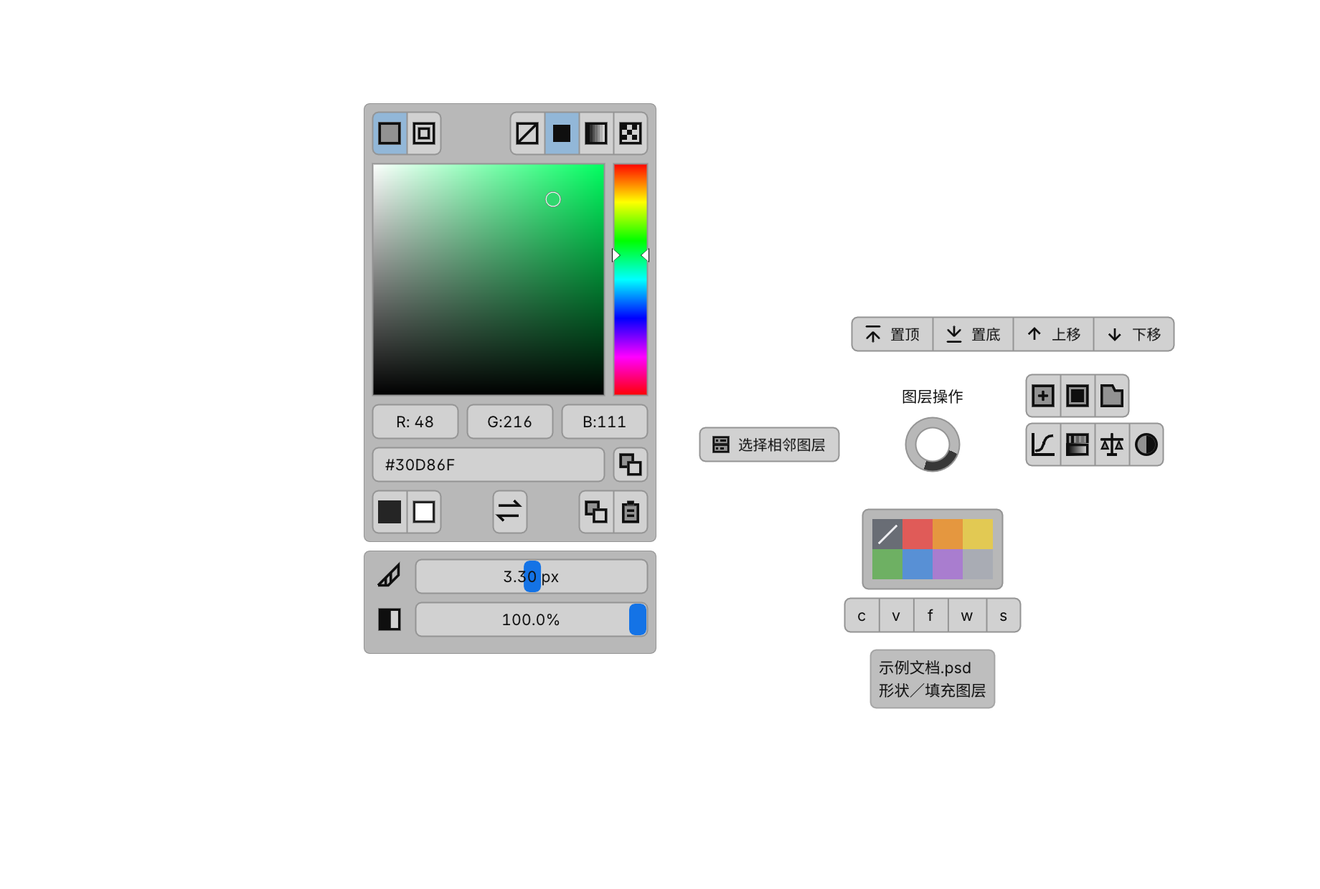
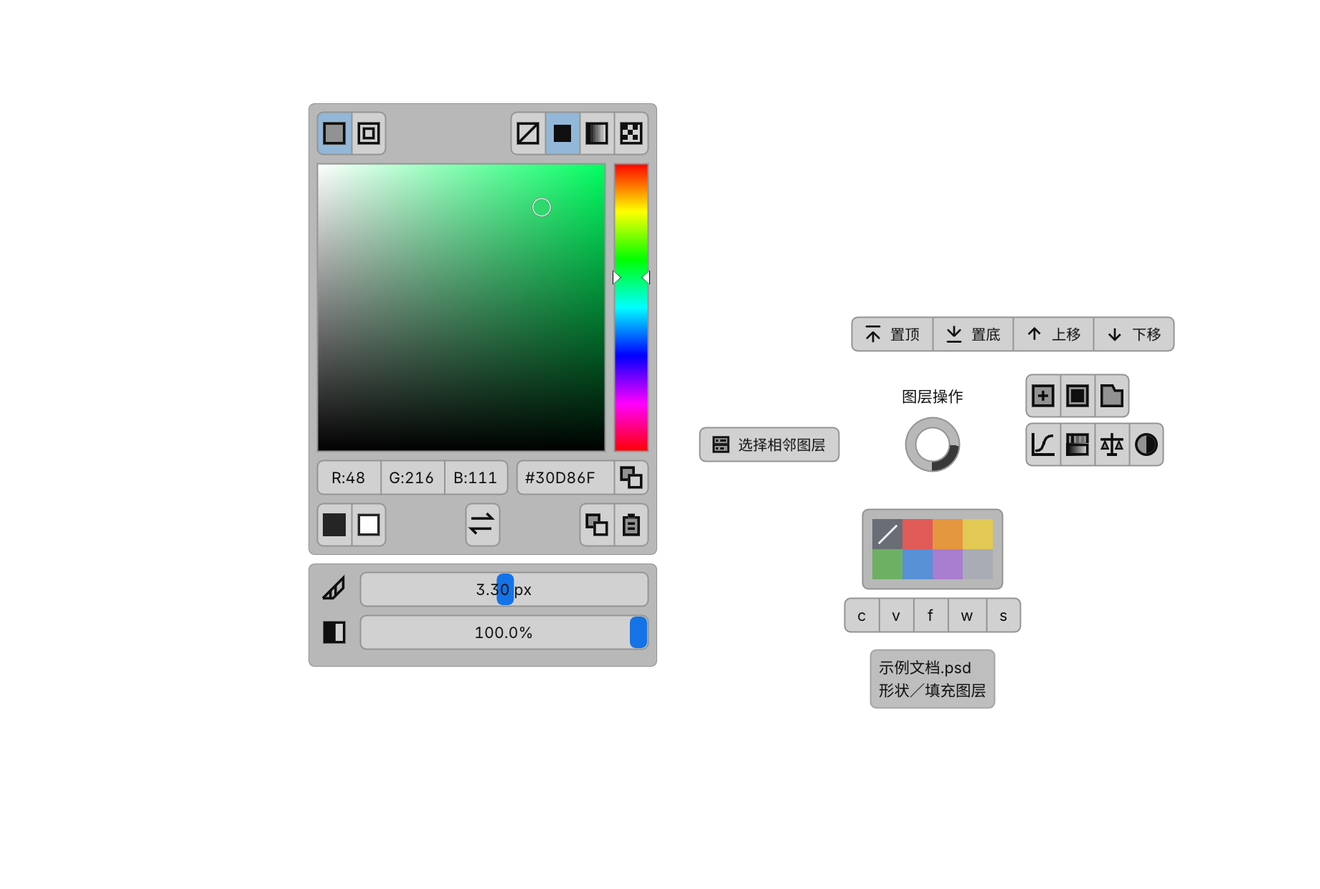
Refine RGB and editable Hex into one aligned row

Changed region(s): [[0.2168, 0.0919, 0.4957, 0.7661], [0.4027, 0.1226, 0.4957, 0.1839], [0.4027, 0.2145, 0.4337, 0.2452]]

diff --git a/native/ShapeColorEditor.h b/native/ShapeColorEditor.h
@@ -9,14 +9,16 @@ struct ShapeColorEditor {
     std::string hexKey;
     ULONGLONG copiedAt=0;
     bool copyFailed=false;
-    RECT bounds{},maskBounds{},copyBounds{},gradientBounds{},featherBounds{},densityBounds{};
+    RECT bounds{},maskBounds{},copyBounds{},gradientBounds{},featherBounds{},densityBounds{},hexBounds{};
     bool gradientDragging=false;
     std::array<ImGuiID,2> maskInputIDs{};
+    std::array<ImGuiID,3> rgbInputIDs{};
+    std::array<RECT,3> rgbBounds{};
     float gradientDragOffset=0;
     void prepare(const Json& data) {
         maskPreviewStarted=false;shapeDraftOnly=false;livePreview=false;batchMask=false;batchCount=0;maskValues=maskMixed=Json::object();
-        lastPreview=Json();maskInputIDs={};
-        available=false;dirty=false;bounds=maskBounds=copyBounds=gradientBounds=featherBounds=densityBounds={};gradientDragging=false;gradientDragOffset=0;channel=stop=0;modes={};hexInput[0]=0;hexKey.clear();copiedAt=0;copyFailed=false;
+        lastPreview=Json();maskInputIDs={};rgbInputIDs={};rgbBounds={};
+        available=false;dirty=false;bounds=maskBounds=copyBounds=gradientBounds=featherBounds=densityBounds=hexBounds={};gradientDragging=false;gradientDragOffset=0;channel=stop=0;modes={};hexInput[0]=0;hexKey.clear();copiedAt=0;copyFailed=false;
         if(!data.value("available",false))return;
         if(data.value("mask_batch",false)) {
             batchCount=data.at("layer_ids").size();if(batchCount<2 || batchCount>128)return;
@@ -169,6 +171,64 @@ static void shapePaintToolbar(float width) {
         holdFinished=true;send(selected?"shape.pastePaint":"shape.copyPaint");
     }
 }
+static bool shapeRgbInputs(Json& rgb,float width) {
+    const auto at=ImGui::GetCursorScreenPos();auto* draw=ImGui::GetWindowDrawList();
+    const float height=menuControlHeight*scale,part=width/3,rounding=ImGui::GetStyle().FrameRounding;
+    draw->AddRectFilled(at,{at.x+width,at.y+height},ImGui::GetColorU32(ImGuiCol_FrameBg),rounding);
+    ImGui::PushStyleVar(ImGuiStyleVar_FrameRounding,0.f);ImGui::PushStyleVar(ImGuiStyleVar_FrameBorderSize,0.f);
+    const auto pad=ImGui::GetStyle().FramePadding;ImGui::PushStyleVar(ImGuiStyleVar_FramePadding,{menuControlPadding*scale,pad.y});
+    for(auto role:{ImGuiCol_FrameBg,ImGuiCol_FrameBgHovered,ImGuiCol_FrameBgActive})ImGui::PushStyleColor(role,ImVec4(0,0,0,0));
+    draw->ChannelsSplit(2);bool changed=false;const char* formats[]={"R:%d","G:%d","B:%d"};
+    for(int i=0;i<3;++i){
+        ImGui::PushID(i);draw->ChannelsSetCurrent(1);const ImVec2 a={at.x+i*part,at.y},b={at.x+(i+1)*part,at.y+height};
+        ImGui::SetCursorScreenPos(a);ImGui::SetNextItemWidth(part);int value=std::clamp(int(std::lround(rgb[i].get<double>())),0,255);
+        shapeEditor.rgbInputIDs[i]=ImGui::GetID("##rgb");
+        if(ImGui::DragInt("##rgb",&value,1.f,0,255,formats[i],ImGuiSliderFlags_AlwaysClamp)){rgb[i]=value;changed=true;}
+        shapeEditor.rgbBounds[i]={LONG(a.x),LONG(a.y),LONG(b.x),LONG(b.y)};
+        if(ImGui::IsItemHovered() || ImGui::IsItemActive()){
+            draw->ChannelsSetCurrent(0);draw->AddRectFilled(a,b,ImGui::GetColorU32(ImGui::IsItemActive()?ImGuiCol_HeaderActive:ImGuiCol_HeaderHovered),rounding,
+                i==0?ImDrawFlags_RoundCornersLeft:i==2?ImDrawFlags_RoundCornersRight:ImDrawFlags_RoundCornersNone);
+        }
+        ImGui::PopID();
+    }
+    draw->ChannelsMerge();ImGui::PopStyleColor(3);ImGui::PopStyleVar(3);
+    for(int i=1;i<3;++i)draw->AddLine({at.x+i*part,at.y},{at.x+i*part,at.y+height},ImGui::GetColorU32(ImGuiCol_Border),scale);
+    draw->AddRect(at,{at.x+width,at.y+height},ImGui::GetColorU32(ImGuiCol_Border),rounding,0,scale);
+    ImGui::SetCursorScreenPos({at.x,at.y+height+menuPanelGap*scale});return changed;
+}
+static void shapeHexInput(Json& rgb,float width) {
+    const auto at=ImGui::GetCursorScreenPos();auto* draw=ImGui::GetWindowDrawList();
+    const float height=menuControlHeight*scale,copyWidth=figmaDisplayIconWidth*scale,inputWidth=width-copyWidth,rounding=ImGui::GetStyle().FrameRounding;
+    const auto surface=ImGui::GetColorU32(ImGuiCol_FrameBg);
+    shapeEditor.hexBounds={LONG(at.x),LONG(at.y),LONG(at.x+width),LONG(at.y+height)};
+    draw->AddRectFilled(at,{at.x+width,at.y+height},surface,rounding);
+    ImGui::PushStyleVar(ImGuiStyleVar_FrameRounding,0.f);ImGui::PushStyleVar(ImGuiStyleVar_FrameBorderSize,0.f);
+    const auto pad=ImGui::GetStyle().FramePadding;ImGui::PushStyleVar(ImGuiStyleVar_FramePadding,{menuControlPadding*scale,pad.y});
+    for(auto role:{ImGuiCol_FrameBg,ImGuiCol_FrameBgHovered,ImGuiCol_FrameBgActive})ImGui::PushStyleColor(role,ImVec4(0,0,0,0));
+    draw->ChannelsSplit(2);draw->ChannelsSetCurrent(1);
+    const float prefixWidth=ImGui::CalcTextSize("#").x;
+    ImGui::SetCursorScreenPos(at);if(ImGui::InvisibleButton("##hex-prefix",{prefixWidth,height}))ImGui::SetKeyboardFocusHere();
+    ImGui::SetCursorScreenPos({at.x+prefixWidth,at.y});ImGui::SetNextItemWidth(inputWidth-prefixWidth);
+    if(ImGui::InputText("##hex",shapeEditor.hexInput,7,ImGuiInputTextFlags_CharsUppercase|ImGuiInputTextFlags_CharsHexadecimal)){
+        Json parsed;if(parseShapeHex(shapeEditor.hexInput,parsed)){rgb=parsed;shapeEditor.current()["enabled"]=true;shapeEditor.changed();}
+    }
+    if(ImGui::IsItemHovered() || ImGui::IsItemActive()){
+        draw->ChannelsSetCurrent(0);draw->AddRectFilled(at,{at.x+inputWidth,at.y+height},ImGui::GetColorU32(ImGui::IsItemActive()?ImGuiCol_HeaderActive:ImGuiCol_HeaderHovered),rounding,ImDrawFlags_RoundCornersLeft);
+    }
+    draw->ChannelsMerge();ImGui::PopStyleColor(3);ImGui::PopStyleVar(3);
+    draw->AddText({at.x+menuControlPadding*scale,at.y+pad.y},ImGui::GetColorU32(ImGuiCol_Text),"#");
+    Json parsed;ImGui::BeginDisabled(!parseShapeHex(shapeEditor.hexInput,parsed));
+    ImGui::SetCursorScreenPos({at.x+inputWidth+scale,at.y+scale});
+    const bool clicked=ImGui::InvisibleButton("##copy-hex",{copyWidth-2*scale,height-2*scale});shapeItemTip(7);
+    if(ImGui::IsItemHovered())draw->AddRectFilled({at.x+inputWidth,at.y},{at.x+width,at.y+height},ImGui::GetColorU32(ImGuiCol_HeaderHovered),rounding,ImDrawFlags_RoundCornersRight);
+    const bool disabled=(ImGui::GetItemFlags()&ImGuiItemFlags_Disabled)!=0;
+    drawStyledMenuIcon(draw,16,{at.x+inputWidth+(copyWidth-figmaDisplayIconSize*scale)*.5f,at.y+(height-figmaDisplayIconSize*scale)*.5f},figmaDisplayIconSize*scale,ImGui::GetColorU32(disabled?ImGuiCol_TextDisabled:ImGuiCol_Text),surface);
+    const auto a=ImGui::GetItemRectMin(),b=ImGui::GetItemRectMax();shapeEditor.copyBounds={LONG(a.x),LONG(a.y),LONG(b.x),LONG(b.y)};
+    if(clicked)copyShapeHex(rgb);ImGui::EndDisabled();
+    draw->AddLine({at.x+inputWidth,at.y},{at.x+inputWidth,at.y+height},ImGui::GetColorU32(ImGuiCol_Border),scale);
+    draw->AddRect(at,{at.x+width,at.y+height},ImGui::GetColorU32(ImGuiCol_Border),rounding,0,scale);
+    ImGui::SetCursorScreenPos({at.x,at.y+height+menuPanelGap*scale});
+}
 static int gradientPosition(float x,float left,float width) {
     return width>0?std::clamp(int(std::lround((x-left)/width*4096.f)),0,4096):0;
 }
@@ -227,12 +287,18 @@ static void drawGradientBar(float width) {
 }
 static void drawShapeEditor() {
     shapeTipCandidate=-1;shapeTipRows={};
-    shapeEditor.bounds=shapeEditor.maskBounds=shapeEditor.copyBounds=shapeEditor.gradientBounds=shapeEditor.featherBounds=shapeEditor.densityBounds={};if(!shapeEditor.ready())return;
+    shapeEditor.bounds=shapeEditor.maskBounds=shapeEditor.copyBounds=shapeEditor.gradientBounds=shapeEditor.featherBounds=shapeEditor.densityBounds=shapeEditor.hexBounds={};shapeEditor.rgbBounds={};if(!shapeEditor.ready())return;
     const auto windowPos=ImGui::GetWindowPos(),windowSize=ImGui::GetWindowSize();
     const float available=pieCenter.x-windowPos.x-65*scale-basicLabelExtent(0).x-basicTextOffset()-figmaBasicRightPadding*scale-30*scale;
     if(available<140*scale)return;
     auto* panelFont=menuFonts[0]?menuFonts[0]:ImGui::GetFont();
-    const float width=std::min(menuPanelWidth*scale,available),gap=menuPanelGap*scale;
+    const float gap=menuPanelGap*scale;
+    auto textWidth=[&](const char* value){return panelFont->CalcTextSizeA(panelFont->FontSize,FLT_MAX,0,value).x;};
+    const float rgbMinimum=std::max({textWidth("R:255"),textWidth("G:255"),textWidth("B:255")})+2*menuControlPadding*scale;
+    float hexGlyph=0;for(char ch:std::string("0123456789ABCDEF")){char text[]={ch,0};hexGlyph=std::max(hexGlyph,textWidth(text));}
+    const float hexMinimum=textWidth("#")+6*hexGlyph+(2*menuControlPadding+figmaDisplayIconWidth+2)*scale;
+    const float valuesWidth=3*rgbMinimum+gap+hexMinimum;
+    const float width=std::floor(std::min(shapeEditor.batchMask?menuPanelWidth*scale:std::max(menuPanelWidth*scale,valuesWidth+2*(menuControlPadding+1)*scale),available));
     const float row=menuControlHeight*scale+gap;
     const auto kind=shapeEditor.batchMask?std::string("mask"):shapeEditor.current().value("kind",std::string("solid"));
     const float iconRow=figmaDisplayWidgetHeight*scale+gap;
@@ -240,8 +306,9 @@ static void drawShapeEditor() {
     const float cell=figmaDisplayIconWidth*scale;
     const bool wrapTools=width-2*menuControlPadding*scale<(shapeEditor.vector?6:4)*cell+gap;
     const bool wrapActions=shapeEditor.vector && kind!="pattern" && width-2*menuControlPadding*scale<5*cell+2*gap;
+    const bool wrapValues=width-2*menuControlPadding*scale<valuesWidth;
     const float content=2*menuControlPadding*scale+iconRow*(wrapTools?2:1)+(shapeEditor.vector && shapeEditor.channel?row:0)+
-        (kind=="pattern"?row:colorSquare+2*row+(kind=="gradient"?menuGradientEditorHeight*scale+gap:0))+iconRow*(wrapActions?2:1);
+        (kind=="pattern"?row:colorSquare+(wrapValues?2:1)*row+(kind=="gradient"?menuGradientEditorHeight*scale+gap:0))+iconRow*(wrapActions?2:1);
     const float maskHeight=shapeEditor.hasMask()?2*menuControlPadding*scale+2*row+(shapeEditor.batchMask?iconRow:0):0;
     const float separation=shapeEditor.hasMask() && !shapeEditor.batchMask?gap:0;
     const float height=shapeEditor.batchMask?0:std::min(content,windowSize.y-24*scale-maskHeight-separation);
@@ -249,6 +316,7 @@ static void drawShapeEditor() {
     ImVec2 at={std::max(windowPos.x+16*scale,pieCenter.x-65*scale-basicLabelExtent(0).x-basicTextOffset()-figmaBasicRightPadding*scale-30*scale-width),std::max(windowPos.y+12*scale,pieCenter.y-238*scale)};
     at.y=std::max(windowPos.y+12*scale,std::min(at.y,windowPos.y+windowSize.y-totalHeight-12*scale));
     if(shapeEditor.batchMask)at.y=std::max(windowPos.y+12*scale,std::min(pieCenter.y-menuControlHeight*scale*.5f,windowPos.y+windowSize.y-maskHeight-12*scale));
+    at.x=std::round(at.x);at.y=std::round(at.y);
     if(!shapeEditor.batchMask)shapeEditor.bounds={LONG(at.x),LONG(at.y),LONG(at.x+width),LONG(at.y+height)};
     const auto saved=ImGui::GetCursorScreenPos();ImGui::SetCursorScreenPos(at);
     ImGui::PushStyleColor(ImGuiCol_ChildBg,ImGui::GetStyle().Colors[ImGuiCol_WindowBg]);
@@ -304,26 +372,20 @@ static void drawShapeEditor() {
         }
         Json& c=paintKind=="solid"?p["rgb"]:p["stops"][shapeEditor.stop]["rgb"];
         float color[]={c[0].get<float>()/255,c[1].get<float>()/255,c[2].get<float>()/255,1};
-        const float reserve=ImGui::GetFrameHeightWithSpacing()+iconRow*(wrapActions?2:1);
+        const float reserve=(wrapValues?ImGui::GetFrameHeightWithSpacing():0)+iconRow*(wrapActions?2:1);
         ImGui::SetNextItemWidth(std::min(inner,std::max(90*scale,ImGui::GetContentRegionAvail().y-reserve)));
         if(ImGui::ColorPicker4("##paint",color,ImGuiColorEditFlags_NoAlpha|ImGuiColorEditFlags_NoSidePreview|ImGuiColorEditFlags_NoSmallPreview|
-            ImGuiColorEditFlags_NoOptions|ImGuiColorEditFlags_NoDragDrop|ImGuiColorEditFlags_PickerHueBar|ImGuiColorEditFlags_DisplayRGB|ImGuiColorEditFlags_Uint8)){
+            ImGuiColorEditFlags_NoOptions|ImGuiColorEditFlags_NoDragDrop|ImGuiColorEditFlags_PickerHueBar|ImGuiColorEditFlags_NoInputs|ImGuiColorEditFlags_Uint8)){
             c=Json::array({int(std::lround(std::clamp(color[0],0.f,1.f)*255)),int(std::lround(std::clamp(color[1],0.f,1.f)*255)),int(std::lround(std::clamp(color[2],0.f,1.f)*255))});p["enabled"]=true;shapeEditor.changed();}
         const std::string hexKey=std::to_string(shapeEditor.channel)+paintKind+std::to_string(shapeEditor.stop);
         const ImGuiID hexId=ImGui::GetID("##hex");
         if(shapeEditor.hexKey!=hexKey){if(ImGui::GetActiveID()==hexId)ImGui::ClearActiveID();shapeEditor.hexKey=hexKey;}
-        if(ImGui::GetActiveID()!=hexId){const auto value=shapeHex(c);std::copy(value.begin(),value.end(),shapeEditor.hexInput);shapeEditor.hexInput[7]=0;}
-        const float copyWidth=figmaDisplayIconWidth*scale;
-        ImGui::SetNextItemWidth(inner-copyWidth-gap);
-        if(ImGui::InputText("##hex",shapeEditor.hexInput,sizeof(shapeEditor.hexInput),ImGuiInputTextFlags_CharsUppercase|ImGuiInputTextFlags_CharsNoBlank)){
-            Json parsed;if(parseShapeHex(shapeEditor.hexInput,parsed)){c=parsed;p["enabled"]=true;shapeEditor.changed();}}
-        ImGui::SameLine(0,gap);Json parsed;
-        ImGui::BeginDisabled(!parseShapeHex(shapeEditor.hexInput,parsed));
-        const bool copied=shapeEditor.copiedAt && GetTickCount64()-shapeEditor.copiedAt<900;
-        if(shapeIconButton("##copy-hex",16,7,copyWidth))copyShapeHex(c);
-        const auto ca=ImGui::GetItemRectMin(),cb=ImGui::GetItemRectMax();
-        shapeEditor.copyBounds={LONG(ca.x),LONG(ca.y),LONG(cb.x),LONG(cb.y)};
-        ImGui::EndDisabled();
+        if(ImGui::GetActiveID()!=hexId){const auto value=shapeHex(c).substr(1);std::copy(value.begin(),value.end(),shapeEditor.hexInput);shapeEditor.hexInput[6]=0;}
+        const auto valuesAt=ImGui::GetCursorScreenPos();const float rgbWidth=wrapValues?inner:inner-gap-hexMinimum;
+        if(shapeRgbInputs(c,rgbWidth)){p["enabled"]=true;shapeEditor.changed();const auto hex=shapeHex(c).substr(1);std::copy(hex.begin(),hex.end(),shapeEditor.hexInput);shapeEditor.hexInput[6]=0;}
+        ImGui::SetCursorScreenPos(wrapValues?ImVec2{valuesAt.x,valuesAt.y+row}:ImVec2{valuesAt.x+rgbWidth+gap,valuesAt.y});
+        shapeHexInput(c,wrapValues?inner:hexMinimum);
+        ImGui::SetCursorScreenPos({valuesAt.x,valuesAt.y+row*(wrapValues?2:1)});
     }
     const auto actionsAt=ImGui::GetCursorScreenPos();
     if(paintKind!="pattern"){

diff --git a/native/MenuHost.cpp b/native/MenuHost.cpp
@@ -2525,6 +2525,31 @@ int main() {
                 if(shapeEditor.draft!=beforePaintDraft || testedMaskEvents.size()!=beforePaintEvents+2)
                     throw std::runtime_error("Solid icon failed to restore retained paint in the owning preview");
                 testedMaskEvents.resize(beforePaintEvents);shapeEditor.prepare(shapeFixture);numberFrame(ImGuiKey_None,false);
+                if(shapeEditor.rgbBounds[0].top!=shapeEditor.rgbBounds[2].top || shapeEditor.rgbBounds[2].top!=shapeEditor.hexBounds.top ||
+                   shapeEditor.rgbBounds[0].right!=shapeEditor.rgbBounds[1].left || shapeEditor.rgbBounds[1].right!=shapeEditor.rgbBounds[2].left ||
+                   shapeEditor.rgbBounds[2].right>=shapeEditor.hexBounds.left || shapeEditor.copyBounds.right>=shapeEditor.hexBounds.right ||
+                   shapeEditor.copyBounds.top<=shapeEditor.hexBounds.top)
+                    throw std::runtime_error("RGB/Hex must share one row with inset copy inside Hex");
+                const auto valueEvents=testedMaskEvents.size();const auto redRect=shapeEditor.rgbBounds[0];
+                auto valueMouse=[&](const RECT& r,bool down){io.AddMouseViewportEvent(ImGui::GetMainViewport()->ID);
+                    io.AddMousePosEvent((r.left+r.right)*.5f,(r.top+r.bottom)*.5f);io.AddMouseButtonEvent(ImGuiMouseButton_Left,down);numberFrame(ImGuiKey_None,false);};
+                GImGui->Time+=io.MouseDoubleClickTime+.1f;valueMouse(redRect,false);valueMouse(redRect,true);valueMouse(redRect,false);valueMouse(redRect,true);
+                if(!ImGui::TempInputIsActive(shapeEditor.rgbInputIDs[0]))throw std::runtime_error("RGB scalar did not enter numeric input");
+                io.AddInputCharactersUTF8("73");numberFrame(ImGuiKey_None,false);numberFrame(ImGuiKey_Enter,true);numberFrame(ImGuiKey_Enter,false);valueMouse(redRect,false);
+                if(shapeEditor.current()["rgb"]!=Json({73,34,56}) || testedActions.size()!=shapeCount)
+                    throw std::runtime_error("RGB numeric entry changed other channels or submitted an action");
+                auto enterHex=[&](const char* text){auto r=shapeEditor.hexBounds;r.right-=LONG(figmaDisplayIconWidth*scale);
+                    GImGui->Time+=io.MouseDoubleClickTime+.1f;valueMouse(r,false);valueMouse(r,true);valueMouse(r,false);
+                    io.AddKeyEvent(ImGuiKey_ModCtrl,true);numberFrame(ImGuiKey_A,true);numberFrame(ImGuiKey_A,false);io.AddKeyEvent(ImGuiKey_ModCtrl,false);
+                    io.AddInputCharactersUTF8(text);numberFrame(ImGuiKey_None,false);numberFrame(ImGuiKey_Enter,true);numberFrame(ImGuiKey_Enter,false);};
+                enterHex("#30d86f");
+                if(shapeEditor.current()["rgb"]!=Json({48,216,111}) || std::string(shapeEditor.hexInput)!="30D86F")
+                    throw std::runtime_error("Hex entry failed to filter hash and uppercase digits");
+                copyShapeHex(shapeEditor.current()["rgb"]);if(testedCopiedHex!="#30D86F")throw std::runtime_error("Hex copy lost canonical hash prefix");
+                enterHex("112233");
+                if(shapeEditor.current()["rgb"]!=Json({17,34,51}) || testedActions.size()!=shapeCount || testedMaskEvents.size()<=valueEvents)
+                    throw std::runtime_error("Unprefixed Hex failed to update only the owning preview");
+                testedMaskEvents.resize(valueEvents);shapeEditor.prepare(shapeFixture);numberFrame(ImGuiKey_None,false);
                 const auto featherRect=shapeEditor.featherBounds,densityRect=shapeEditor.densityBounds;
                 RECT shapeWindow;GetWindowRect(window,&shapeWindow);
                 if(featherRect.right<=featherRect.left || densityRect.right<=densityRect.left || densityRect.bottom>shapeEditor.maskBounds.bottom ||
@@ -2628,8 +2653,11 @@ int main() {
                 auto gradientMouse=[&](float x,bool down){io.AddMouseViewportEvent(ImGui::GetMainViewport()->ID);io.AddMousePosEvent(x,markerY);io.AddMouseButtonEvent(ImGuiMouseButton_Left,down);numberFrame(ImGuiKey_None,false);};
                 gradientMouse(left+width*.5f,false);gradientMouse(left+width*.5f,true);
                 gradientMouse(left+width*.75f,true);gradientMouse(left+width*.75f,false);
-                if(shapeEditor.stop!=1 || std::abs(shapeEditor.current()["stops"][1]["location"].get<int>()-3072)>1 || !shapeEditor.dirty || testedActions.size()!=shapeCount)
-                    throw std::runtime_error("Gradient marker drag did not update only its local position");
+                const float actualStopX=left+shapeEditor.current()["stops"][1]["location"].get<float>()/4096.f*width+shapeEditor.gradientDragOffset;
+                if(shapeEditor.stop!=1 || std::abs(actualStopX-io.MousePos.x)>1.f ||
+                   std::abs(shapeEditor.current()["stops"][1]["location"].get<int>()-3072)>std::ceil(4096.f/width) || !shapeEditor.dirty || testedActions.size()!=shapeCount)
+                    throw std::runtime_error("Gradient marker drag did not update only its local position: stop="+std::to_string(shapeEditor.stop)+
+                        " location="+shapeEditor.current()["stops"][1]["location"].dump()+" dirty="+std::to_string(shapeEditor.dirty));
                 shapeEditor.stop=0;moveGradientStop(4096);
                 if(shapeEditor.current()["stops"][0]["location"]!=shapeEditor.current()["stops"][1]["location"])
                     throw std::runtime_error("Gradient markers crossed their neighbours");

diff --git a/backend/version.py b/backend/version.py
@@ -1,1 +1,1 @@
-APP_VERSION = '0.4.184'
+APP_VERSION = '0.4.185'

diff --git a/OFFLINE-INSTALL.md b/OFFLINE-INSTALL.md
@@ -2,7 +2,7 @@
 
 v0.4.165／UXP0.3.32启用旧版独立预览；本机实际入口与发布版本一致。PS24.0.1完整通道15项真实事务通过（双逻辑处理器13项、正常资源2项），覆盖确认一次撤销、取消恢复、失联、1000px、蒙版单独修改、像素蒙版、已有描边、渐变、20秒连续更新与35秒保持。实体Caps／鼠标下的画布显示仍未验收：自动界面工具仍在MXC启动时失败；不据API回执宣称屏幕效果已通过；本轮按用户要求发布，保留此验收限制。现代宿主及故障办公电脑仍待对应实机验证。操作方式见[Wiki](https://github.com/mianxiu/15100px-menu/wiki/Legacy-preview)。
 
-当前v0.4.184／UXP0.3.41。184整理颜色面板分组，无需重载PS；历史183：183只调整禁用外观，无需重载PS；182形状复制等功能继续保留。历史182：182／UXP41新增形状填充／描边完整外观复制、单层或1–128层批量粘贴，整批一次撤销；保留目标路径、羽化／密度、像素蒙版、效果和顺序。颜色与羽化面板取消常驻标题，操作改用同家族图标与悬停tip；羽化／密度支持双击数值输入，输入期间Tab不切填充类型。原有实时预览、Esc恢复和一次撤销保持。 本机已正常重载PS并加载41；其他电脑更新后请保存、正常关闭PS，在后台更新内置插件再启动PS确认41。[操作及验证边界](docs/SHAPE-PAINT-CLIPBOARD.md)。
+当前v0.4.185／UXP0.3.41。185整理RGB／Hex同排输入，无需重载PS；历史184：184整理颜色面板分组，无需重载PS；历史183：183只调整禁用外观，无需重载PS；182形状复制等功能继续保留。历史182：182／UXP41新增形状填充／描边完整外观复制、单层或1–128层批量粘贴，整批一次撤销；保留目标路径、羽化／密度、像素蒙版、效果和顺序。颜色与羽化面板取消常驻标题，操作改用同家族图标与悬停tip；羽化／密度支持双击数值输入，输入期间Tab不切填充类型。原有实时预览、Esc恢复和一次撤销保持。 本机已正常重载PS并加载41；其他电脑更新后请保存、正常关闭PS，在后台更新内置插件再启动PS确认41。[操作及验证边界](docs/SHAPE-PAINT-CLIPBOARD.md)。
 
 历史181：181／UXP40优化旧版独立预览的图层读取：8–128层在每次同步校验内使用新鲜原生图层树、描述符及祖先锁定读取，减少重复DOM访问；小批和超出原生树范围的文档保留原路径。PS24.0.1双逻辑处理器／Below Normal同会话样本，128层首次预览完成读回及重绘12.13→6.02秒，后续帧10.77→6.20秒。保持完整新鲜校验、实时预览、Esc取消恢复、一次撤销及收尾点击保护。428回归、19脚本套件、7项真实PS事务（低CPU6／正常1）、4项外部修改和4项选择保护通过。已加载UXP40时只更新主程序，无需重装插件或重启PS；初次菜单完整取样和跨硬件／现代PS视觉仍待优化及对应验收。 详见[批量蒙版](docs/BATCH-MASKS.md)。
 

diff --git a/TODO.md b/TODO.md
@@ -1,5 +1,8 @@
 # Photoshop Menu TODO
 
+- [x] 185同排RGB／Hex代码／构建／实际入口：RGB共框三段输入，Hex同排独立外框和内嵌复制、固定#／过滤粘贴及自动大写；保留字体并按实际文字测宽，RGB支持拖动和双击输入。434回归、40前端、四主题24渲染、双逻辑处理器／Below Normal原生完整交互及冻结EXE启动／重启通过；覆盖RGB数值、带／不带#的Hex编辑、复制标准格式、预览未额外提交、渐变拖动和既有取消矩阵。实际185／UXP41，组件匹配，PS未重启、原稿／配置／资源／未知记录保持。早期小数像素导致渐变拖动断言失败已对齐修正，未将失败计为通过；实体鼠标和其他硬件视觉待验收。证据.runtime/recovery185/runtime.json、tests185.log、frontend185-test.log、native185-low.log、ui185-verified.json。
+- [ ] 185公开交付：待源码／标签、Wiki、匿名下载及备用更新核验；之后只保留185 Release，184附件本地备份、Git标签及历史保留。
+
 - [x] 184全图标布局代码／构建／实际入口：填充／描边与无／纯色／渐变／图案同排分组，孤立勾选框改为无图标；黑白、单格交换、外观复制／粘贴同排。434回归、40前端、四主题24份串行渲染、双逻辑处理器／Below Normal原生完整交互矩阵和EXE启动／重启通过，包含无／纯色保留值与预览合并检查。实际184／UXP41，入口及资源匹配；PS／UXP未重启，原稿／配置／未知保护保持。早期几何断言失败及不完整导出留档、不计通过；后续修正提示几何记录并核对24张图标区域，实体鼠标及其他硬件视觉仍待验收。证据.runtime/recovery184/runtime.json、tests184.log、frontend184-test.log、native184-low.log、ui184-verified.json、ui184。
 - [x] 184公开交付：源码／标签、Wiki四页与Release已推送，安装包／SHA／更新清单匿名下载及冻结更新器API403备用下载核验通过；只保留184 Release，183附件本地备份、Git标签／源码历史保留。实际184／UXP41，实体鼠标和其他电脑视觉仍待验收。证据.runtime/recovery184/runtime.json、release-0.4.184-public-verification.json、fallback184-live.json、wiki184-public.json、release184-cleanup.json。
 

diff --git a/docs/UI-GUIDE.md b/docs/UI-GUIDE.md
@@ -1,5 +1,7 @@
 # UI 指南
 
+185：R／G／B使用共用外框的三段输入栏，Hex作为独立整体控件与RGB同排，复制图标内嵌在Hex右侧。保持原字体，按最长数值和Hex实际文字宽度测量面板；仅极窄工作区无法容纳时换行。Hex可直接编辑，固定显示#前缀，输入／粘贴带#或不带#的六位颜色均转为大写，复制按钮输出#RRGGBB。 RGB支持拖动及双击输入0–255；同组仅一个圆角外框和直线分隔。Hex文本与复制图标共享一个外框，命中分开，不重叠。保留全图标工具栏、无标题两面板、禁用灰和黑色半透明tip。
+
 184：按用户选择保留全图标并整理布局：顶部左侧为填充／描边，右侧为无、纯色、渐变、图案；用“无”替代孤立的启用勾选框。底部黑白、交换、形状外观复制／粘贴同排分组，交换只占一个图标按钮，不再独占整行。RGB、Hex及Hex复制仍相邻；颜色与羽化面板保持分开、无标题。 窄面板空间不足时分行，保持图标尺寸和间距，不压缩命中。后续图标面板按用途分组，不把每个图标都拉成独立整行；开关尽量和所控制的选项放在一起。183禁用灰仍沿用。
 
 183：禁用图标使用更淡的主题灰色，与可点击图标拉开明暗差别；形状编辑器的禁用分段、复制／粘贴和Hex复制采用统一禁用前景色，禁用项不保留蓝色选中底。正常／hover颜色、布局和命中保持。 后台禁用色与原生四主题令牌同步；灰化只改变绘制，不改变权限、忙碌拒绝或取消行为。

diff --git a/docs/SHAPE-PAINT-CLIPBOARD.md b/docs/SHAPE-PAINT-CLIPBOARD.md
@@ -1,5 +1,7 @@
 # 形状填充／描边复制粘贴
 
+185／UXP41：R／G／B使用共用外框的三段输入栏，Hex作为独立整体控件与RGB同排，复制图标内嵌在Hex右侧。保持原字体，按最长数值和Hex实际文字宽度测量面板；仅极窄工作区无法容纳时换行。Hex可直接编辑，固定显示#前缀，输入／粘贴带#或不带#的六位颜色均转为大写，复制按钮输出#RRGGBB。 例如#30d86f或30d86f均显示为#30D86F；未满六位时保留本地输入，不写入不完整颜色。RGB／Hex编辑沿用本次实时预览、Esc恢复和一次撤销；输入时Tab导航，不切填充类型。
+
 184／UXP41：按用户选择保留全图标并整理布局：顶部左侧为填充／描边，右侧为无、纯色、渐变、图案；用“无”替代孤立的启用勾选框。底部黑白、交换、形状外观复制／粘贴同排分组，交换只占一个图标按钮，不再独占整行。RGB、Hex及Hex复制仍相邻；颜色与羽化面板保持分开、无标题。 点击斜线方框关闭当前填充或描边；点纯色／渐变／图案重新启用，切换“无”保留原颜色数据。交换仍只调整填充／描边，外观复制／粘贴和Hex复制各自独立。未确认时Esc恢复，确认后一次撤销。
 
 183／UXP41：禁用图标使用更淡的主题灰色，与可点击图标拉开明暗差别；形状编辑器的禁用分段、复制／粘贴和Hex复制采用统一禁用前景色，禁用项不保留蓝色选中底。正常／hover颜色、布局和命中保持。 插件仍为0.3.41，本次不需重载PS。

diff --git a/RELEASES.md b/RELEASES.md
@@ -1,5 +1,9 @@
 # 发行记录
 
+## v0.4.185
+
+R／G／B使用共用外框的三段输入栏，Hex作为独立整体控件与RGB同排，复制图标内嵌在Hex右侧。保持原字体，按最长数值和Hex实际文字宽度测量面板；仅极窄工作区无法容纳时换行。Hex可直接编辑，固定显示#前缀，输入／粘贴带#或不带#的六位颜色均转为大写，复制按钮输出#RRGGBB。 保留184的图标分组；UXP仍为0.3.41，无需重启PS。验证范围见TODO。
+
 ## v0.4.184
 
 按用户选择保留全图标并整理布局：顶部左侧为填充／描边，右侧为无、纯色、渐变、图案；用“无”替代孤立的启用勾选框。底部黑白、交换、形状外观复制／粘贴同排分组，交换只占一个图标按钮，不再独占整行。RGB、Hex及Hex复制仍相邻；颜色与羽化面板保持分开、无标题。 UXP仍为0.3.41，无需重启PS。原实时预览、Esc恢复和一次撤销保持；验证范围见TODO。

diff --git a/docs/images/README.md b/docs/images/README.md
@@ -18,3 +18,5 @@
 183：layer-menu.png改为四主题矩阵中的empty-light-gray原生导出，复制可用、未复制时粘贴明显灰化；仅布局和绘制检查，不是PS实体鼠标验收。
 
 184：layer-menu.png更新为同宽两面板和紧凑图标分组的原生导出（ui184/solid-light-gray），不是PS实体屏幕验收。
+
+185：layer-menu.png为同排RGB／Hex及内嵌复制的原生导出（ui185/solid-light-gray），不是PS实体屏幕验收。
